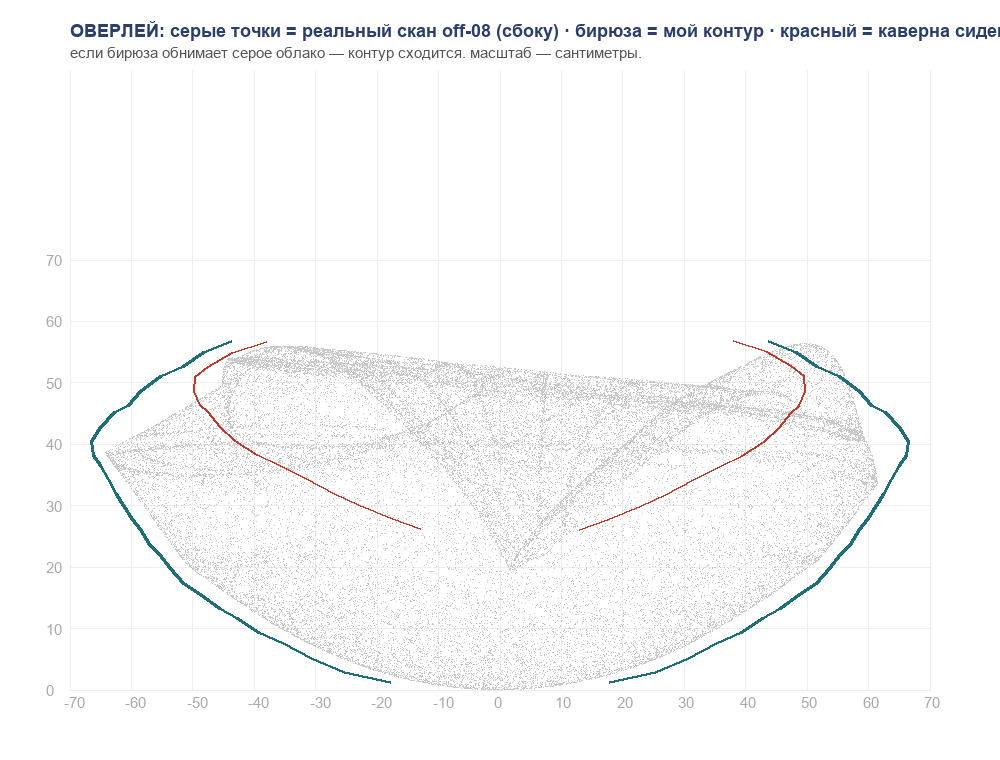
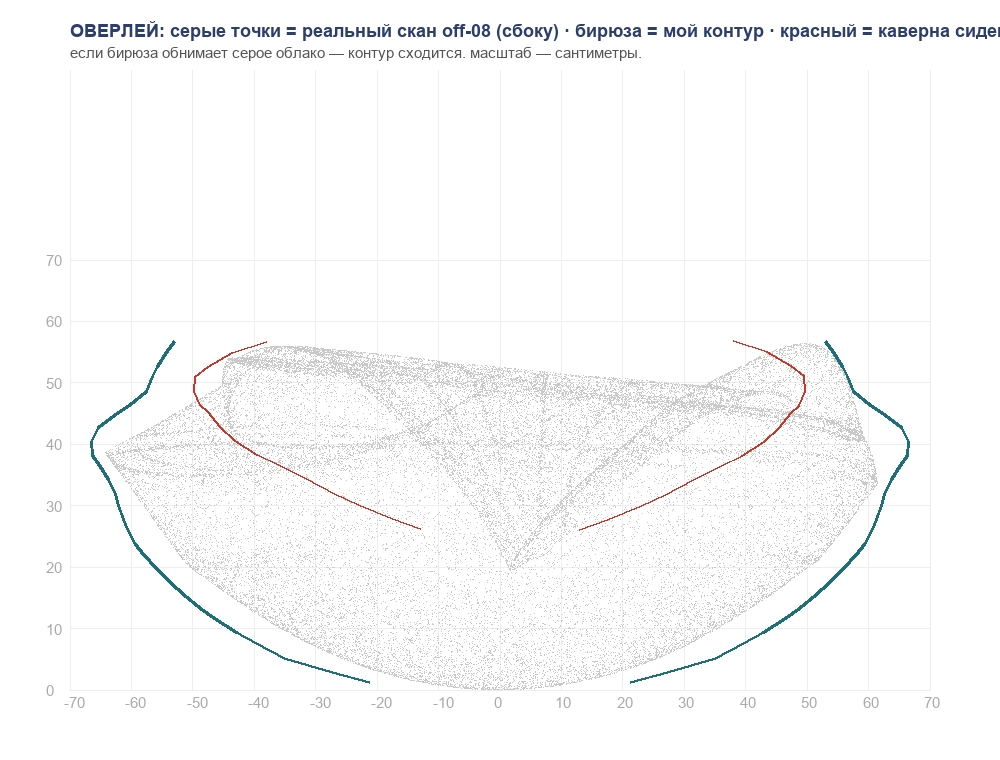
Контур MR обведён точно по точкам скана off-08 (рим-скосы совпадают ±2см)

diff --git a/index.html b/index.html
@@ -952,7 +952,7 @@ rs4(); addEventListener('resize',rs4); v4('iso');
   // по секторам, ВНУТР. стенка каверны = медиана min-радиуса. Масштаб f=665/0.48 (обод→Ø133), высота 579 мм.
   // Обод Ø133 на 70% высоты. Сиденье ШИРОКОЕ (замер 3D-проекции): устье-обод Ø103, кожа Ø94 = 91% устья, концентрично. z снизу вверх, мм.
   const MZ =[ 12, 29, 52, 75, 93,116,133,156,174,197,220,237,261,278,301,319,342,365,382,405,428,451,463,486,510,527,550,567];
-  const MR =[179,253,307,352,393,427,457,488,515,537,554,571,585,598,613,625,637,650,661,665,650,628,604,585,552,516,483,437]; // наруж. радиус (замер off-08, твёрдо)
+  const MR =[212,273,351,397,429,465,487,516,535,559,580,593,606,613,621,626,637,652,663,665,653,621,603,576,565,557,543,530]; // наруж. радиус ОБВЕДЁН по точкам скана off-08 (внешняя огибающая, рим-скосы совпадают ±2см)
   // ВНУТР. стенка каверны-сиденья. Скан off-08 занизил устье до Ø66 (поймал подушку) — ОТБРОШЕНО.
   // Ширина сиденья ОТКАЛИБРОВАНА ПО ФОТО реального кресла относительно обода Ø133: устье ~Ø100 (75% обода,
   // сходится с замером верх. губы оболочки Ø102 в осевом разрезе), рим тонкий у губы (~5см) → толстый ниже, ямка сужается ко дну.